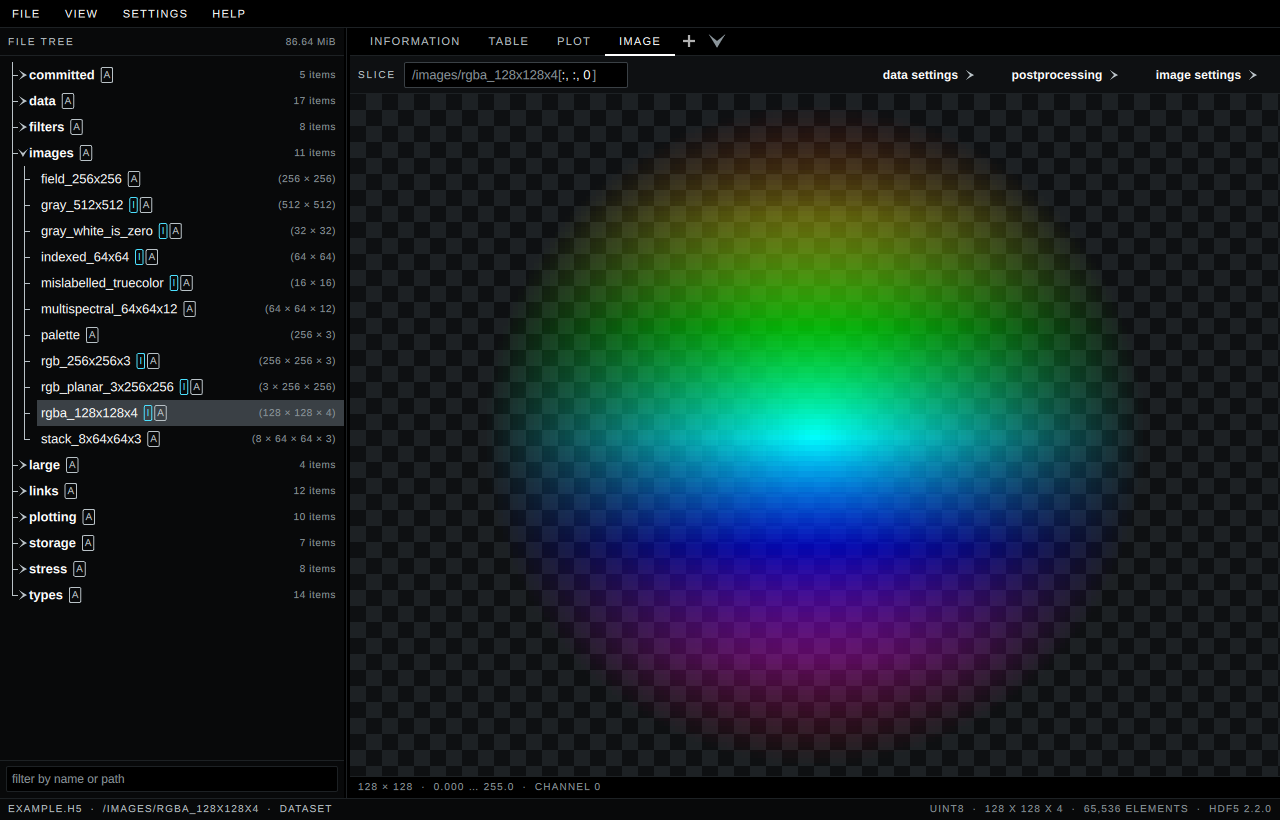
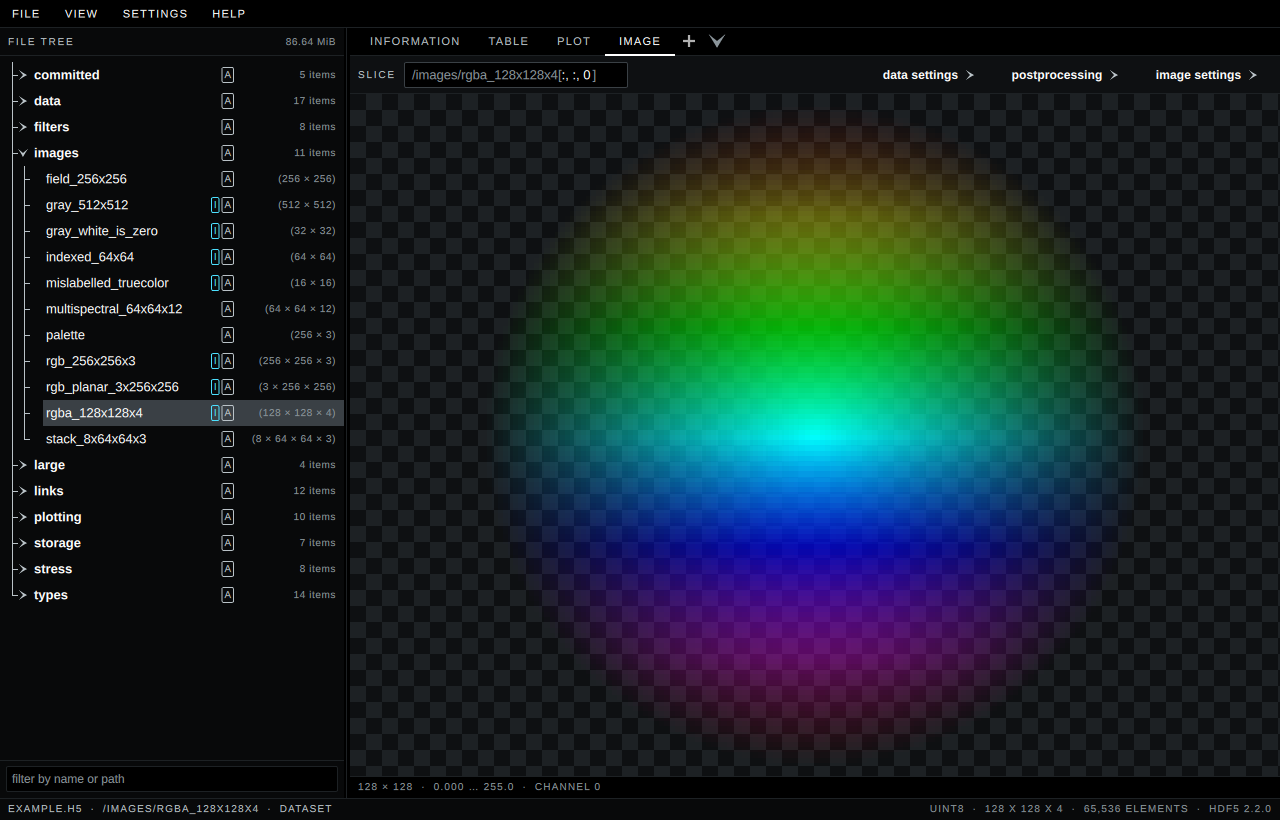
Write the 0.6.6 notes and take the pictures again
Five changes, and the section is what the release page will say about
them. The screenshots are regenerated because three of the five are
visible in them: the plot's frame is closed, the first line of the
default cycle is orange, and the tree's tags and readouts stand in
columns.

Claude-Session: https://claude.ai/code/session_01KK4JZbYXG91eyoGoPNhTNs

Changed region(s): [[0.0, 0.061, 0.1875, 0.7317]]

diff --git a/CHANGELOG.md b/CHANGELOG.md
@@ -25,6 +25,35 @@ rather than generated. The releases before it are on GitHub with the notes they
 were published under, and backfilling them here would be inventing a record
 rather than keeping one.
 
+## 0.6.6
+
+**A figure's size can be typed in centimetres.** Settings > Plot Settings
+offers the density and both sides of the figure as three boxes over one
+number: the pixel count is settled a row above, so at a stated size a density
+*is* a physical size. Write any one of the three and the other two follow —
+8.5 cm wide at 1920 pixels is 574 dpi, and the height comes to 4.78. The pixel
+count does not move, as ever. It replaces the readout of the inches it came
+to, which said the same thing and could not be typed in.
+
+**The plot's frame is a box.** The two rules the readings are read against are
+now four, so a trace that runs out of the window at the top stops at a rule
+rather than fading into the gutter, and the pane has an edge without a label
+having to say where it is.
+
+**Okabe-Ito opens on its orange.** Its achromatic entry — black on paper,
+signal white on the dark theme — is drawn last rather than first. A plot opens
+on this cycle and usually has one line in it, and that line was being drawn in
+an ink the reader could not tell from the chrome. The colours and the cycle
+are the published ones, offset by one.
+
+**The tree's tags stand in a column of their own.** Room for all three on
+every row, with whatever a row carries packed against its right-hand end, so
+they line up instead of shifting with the number of tags the row happens to
+have.
+
+**Fixed:** dragging a selection band over a plot wrote two *Unable to assign
+[undefined] to double* warnings to the console on every frame of the drag.
+
 ## 0.6.5
 
 **Dots per inch now means what it says.** 0.6.4 read the setting as a
